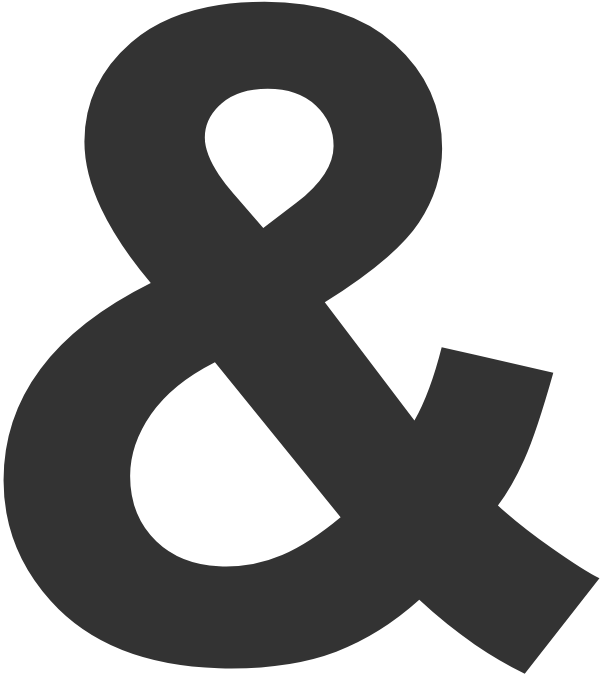
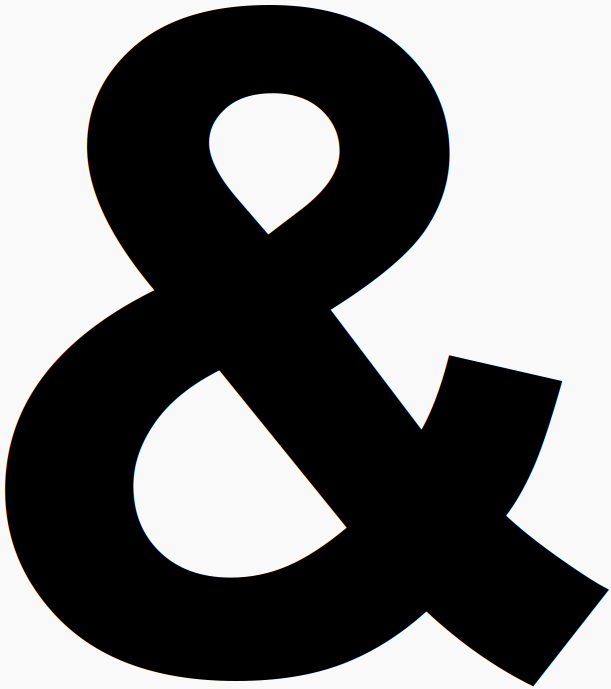
fixed letras page

diff --git a/frontend/src/components/secondStep/letras/letras.component.jsx b/frontend/src/components/secondStep/letras/letras.component.jsx
@@ -10,18 +10,22 @@ import { photoAdded } from "../../../features/photoEdition/PhotoSlice";
 import { Fragment } from "react";
 import { dispatchLetters } from "../../../features/lettersEdition/LettersSlice";
 import { nextButtonEnabled } from "../../../features/handleFormButtons/FormButtonsSlice";
+import AmpersandPhoto from '../../../images/ampersand.png';
+
 const MyTextField = ({autofocus, placeholder, handler, letterOrder, value}) => {
 
     return(
-        <TextField autoFocus={autofocus}
-        onChange={(e) => handler(e, letterOrder)}
-        variant="standard"
-        value={value}
-        placeholder={placeholder}
+        <TextField
+            autoFocus={autofocus}
+            onChange={(e) => handler(e, letterOrder)}
+            variant="standard"
+            value={value}
+            placeholder={placeholder}
             InputProps={{
                 inputProps: {
                     style: {
-                        textAlign: 'center'
+                        textAlign: 'center',
+                        p: 0
                     },
                     maxLength: 1,
                 },
@@ -37,7 +41,7 @@ const MyTextField = ({autofocus, placeholder, handler, letterOrder, value}) => {
                 position: 'absolute',
                 top: "-45px",
                 left: "0px",
-                textAlign: "center",
+                textAlign: "center"
             }}
         />
     );
@@ -103,7 +107,7 @@ const Letras = () => {
                             <MyTextField letters={letters} setLetters={setLetters} value={letters.letter1} handler={textOnChangeHandler} letterOrder="letter1" placeholder={"P"} autofocus={true}/>
                         </Grid>
                         <Grid item xs={6}>
-                        <UploadPhotoCard photo={addedPhotos[0]} width={160} />
+                            <UploadPhotoCard photo={addedPhotos[0]} width={160}/>
                         </Grid>
                         <Grid item xs={6} sx={{display: 'flex', justifyContent: 'flex-end'}}>
                             <UploadPhotoCard photo={addedPhotos[1]} width={160} />
@@ -112,9 +116,11 @@ const Letras = () => {
                             position: 'relative',
                             display: 'flex',
                             justifyContent: 'flex-start',
-                            overflow: 'hidden'
+                            pl: 2.5,
+                            pt: 1
                         }}>
-                            <Typography variant="letrasinput">&</Typography>
+                            <img src={AmpersandPhoto} alt="Ampersand" width={"130px"} height={"145px"}/>
+
                         </Grid>
                         <Grid item xs={6} sx={{
                             position: 'relative',

diff --git a/frontend/src/components/uploadPhotoCardEmpty/uploadPhotoCardEmpty.component.jsx b/frontend/src/components/uploadPhotoCardEmpty/uploadPhotoCardEmpty.component.jsx
@@ -14,7 +14,6 @@ const UploadPhotoCardEmpty = ({ id, width=350 }) => {
       const letters = useSelector(state => state.letters);
 
       const PaperButton = styled(Paper) ({
-            elevation: "2",
             display: 'flex',
             width: width,
             minWidth: width,
@@ -90,7 +89,7 @@ const UploadPhotoCardEmpty = ({ id, width=350 }) => {
       return(
             <Fragment>
                   <HoverBox sx={{position: 'relative'}}>
-                        <PaperButton>
+                        <PaperButton elevation={4}>
                                     <AddIcon sx={{fontSize: relativeFontSize, color: '#F374E7'}}/>
                               <Typography variant="h10" component="p" hidden style={{
                                     position: 'absolute',

diff --git a/frontend/src/components/uploadPhotoCard/uploadPhotoCard.component.jsx b/frontend/src/components/uploadPhotoCard/uploadPhotoCard.component.jsx
@@ -10,7 +10,7 @@ const UploadPhotoCard = ({photo, width="350px"}) => {
       const [openDialog, setOpenDialog] = useState(false);
       
             return(
-                  <Button component="label" sx={{padding: 0, pt: 2, pb: 2}}>
+                  <Button component="label" sx={{p: 0.1}}>
                         {
                               photo.hidden ? (<UploadPhotoCardEmpty id={photo.id} width={width}/>
                               ): null 
